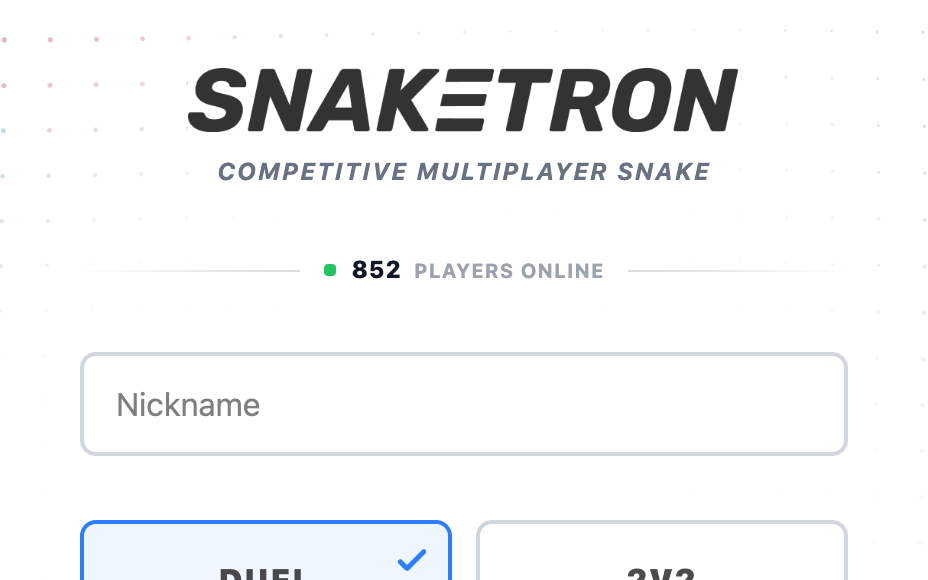
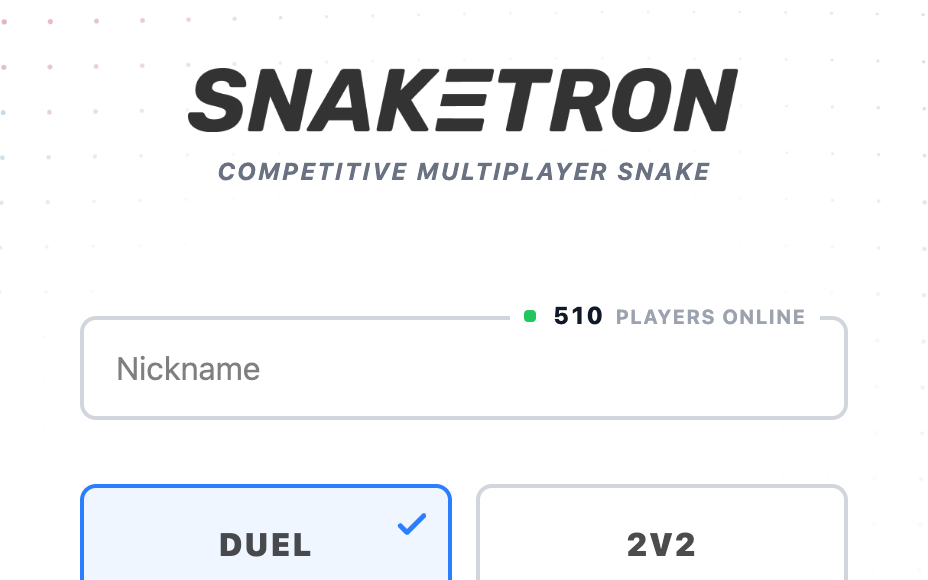
Notch the player count into the nickname field
Switches the presence indicator from a hairline rule between the wordmark and
the form to a tag sitting in a break in the nickname field's top border, set to
the right, the way a legend sits in a fieldset. It binds the count to the form
as one object rather than occupying a band of its own.

The tag is absolutely positioned inside the field's existing wrapper, so it
costs the stack no vertical space: the logo-to-field gap goes back to the 64px
it was before this branch, untouched by the indicator.

Behaviour, states and accessibility are unchanged from the previous commit.

diff --git a/client/web/index.css b/client/web/index.css
@@ -3177,39 +3177,22 @@ a.home-social-icon:hover {
   }
 }
 
-/* Players-online dateline ---------------------------------------------------
-   A hairline rule inset with the live population, sitting between the logo
-   block and the nickname field. The rule spans the form's inner content width
-   so it lines up exactly with the input below it, doing double duty as the
-   structural divider between identity and input. */
+/* Players-online tag --------------------------------------------------------
+   A tag notched into a break in the nickname field's top border, the way a
+   legend sits in a fieldset, binding the live population to the form as one
+   object. Its white ground is what breaks the border beneath it.
+
+   Absolutely positioned inside the field's wrapper, so it costs the stack no
+   vertical space and the logo-to-field gap is whatever the panel padding says. */
 .players-online {
+  position: absolute;
+  z-index: 1;
+  top: -9px;
+  right: 14px;
   display: flex;
   align-items: center;
-  justify-content: center;
-  min-height: 18px;
-  /* Matches the panel's 32px top padding above it, and the 32px rhythm of the
-     stacked blocks below it, so the row sits on even air. */
-  margin-bottom: 32px;
-  gap: 12px;
-}
-
-.players-online-rule {
-  height: 1px;
-  min-width: 0;
-  flex: 1 1 0;
-  animation: players-online-rule-in 700ms cubic-bezier(0.16, 1, 0.3, 1) 120ms both;
-}
-
-/* Each half fades to nothing at its outer end so the rule dissolves into the
-   page rather than stopping at a hard terminal. */
-.players-online-rule.is-left {
-  background: linear-gradient(to right, rgba(17, 24, 39, 0), rgba(17, 24, 39, 0.16));
-  transform-origin: right center;
-}
-
-.players-online-rule.is-right {
-  background: linear-gradient(to left, rgba(17, 24, 39, 0), rgba(17, 24, 39, 0.16));
-  transform-origin: left center;
+  padding: 0 7px;
+  background: #fff;
 }
 
 .players-online-readout {
@@ -3279,15 +3262,6 @@ a.home-social-icon:hover {
   font-weight: 700;
   letter-spacing: 0.45px;
   text-transform: uppercase;
-}
-
-@keyframes players-online-rule-in {
-  from {
-    transform: scaleX(0);
-  }
-  to {
-    transform: scaleX(1);
-  }
 }
 
 @keyframes players-online-ping {
@@ -3539,7 +3513,6 @@ a.home-social-icon:hover {
   .home-account-trigger svg,
   .home-status-dot,
   .home-status-spinner,
-  .players-online-rule,
   .players-online-readout,
   .players-online-dot,
   .players-online-dot::after,

diff --git a/client/web/components/PlayersOnline.tsx b/client/web/components/PlayersOnline.tsx
@@ -1,12 +1,15 @@
 import React, { useEffect, useRef, useState } from 'react';
 
 /**
- * Live global presence readout: a hairline rule with the current player
- * population inset into its centre, sitting between the logo block and the
- * nickname field so it doubles as the divider between identity and input.
+ * Live global presence readout: a tag notched into a break in the nickname
+ * field's top border, the way a legend sits in a fieldset, binding the current
+ * player population to the form as a single object.
+ *
+ * Renders inside the field's positioned wrapper and is absolutely placed, so
+ * it costs the stack no vertical space.
  *
  * `count` is `null` while the population is still unknown (regions loading or
- * unreachable); the row keeps its height so the composition never jumps.
+ * unreachable); the tag keeps its footprint so nothing shifts when it lands.
  */
 interface PlayersOnlineProps {
   count: number | null;
@@ -106,7 +109,6 @@ export const PlayersOnline: React.FC<PlayersOnlineProps> = ({ count }) => {
 
   return (
     <div className={rootClass} role="status" aria-live="polite">
-      <span className="players-online-rule is-left" aria-hidden="true" />
       <span className="players-online-readout">
         <span className="players-online-dot" aria-hidden="true" />
         {isLive ? (
@@ -123,7 +125,6 @@ export const PlayersOnline: React.FC<PlayersOnlineProps> = ({ count }) => {
         )}
         {isLive ? <span className="sr-only">{`${count} ${noun} online`}</span> : null}
       </span>
-      <span className="players-online-rule is-right" aria-hidden="true" />
     </div>
   );
 };

diff --git a/client/web/components/GameStartForm.tsx b/client/web/components/GameStartForm.tsx
@@ -227,9 +227,8 @@ export const GameStartForm: React.FC<GameStartFormProps> = ({
 
   return (
     <form onSubmit={handleSubmit} className="w-full max-w-md mx-auto">
-      {/* Logo. No bottom margin: the panel's own top padding is the whole gap
-          above the indicator, so it matches the indicator's bottom margin. */}
-      <div className="flex flex-col items-center">
+      {/* Logo */}
+      <div className="flex flex-col items-center mb-8">
         <img src="/SnaketronLogo.png" alt="Snaketron" className="h-8 w-auto opacity-80" />
         <p className="mt-3 text-xs font-bold italic uppercase tracking-1 text-gray-500">
           Competitive multiplayer Snake
@@ -237,11 +236,10 @@ export const GameStartForm: React.FC<GameStartFormProps> = ({
       </div>
 
       <div className="p-8">
-        {/* Live population, inset into the rule that divides identity from input */}
-        <PlayersOnline count={playersOnline} />
-
-        {/* Nickname Input */}
+        {/* Nickname Input. The live population tag is notched into this field's
+            top border, so it renders inside the field's positioned wrapper. */}
         <div className="mb-8 relative">
+          <PlayersOnline count={playersOnline} />
           <input
             ref={nicknameInputRef}
             type="text"
